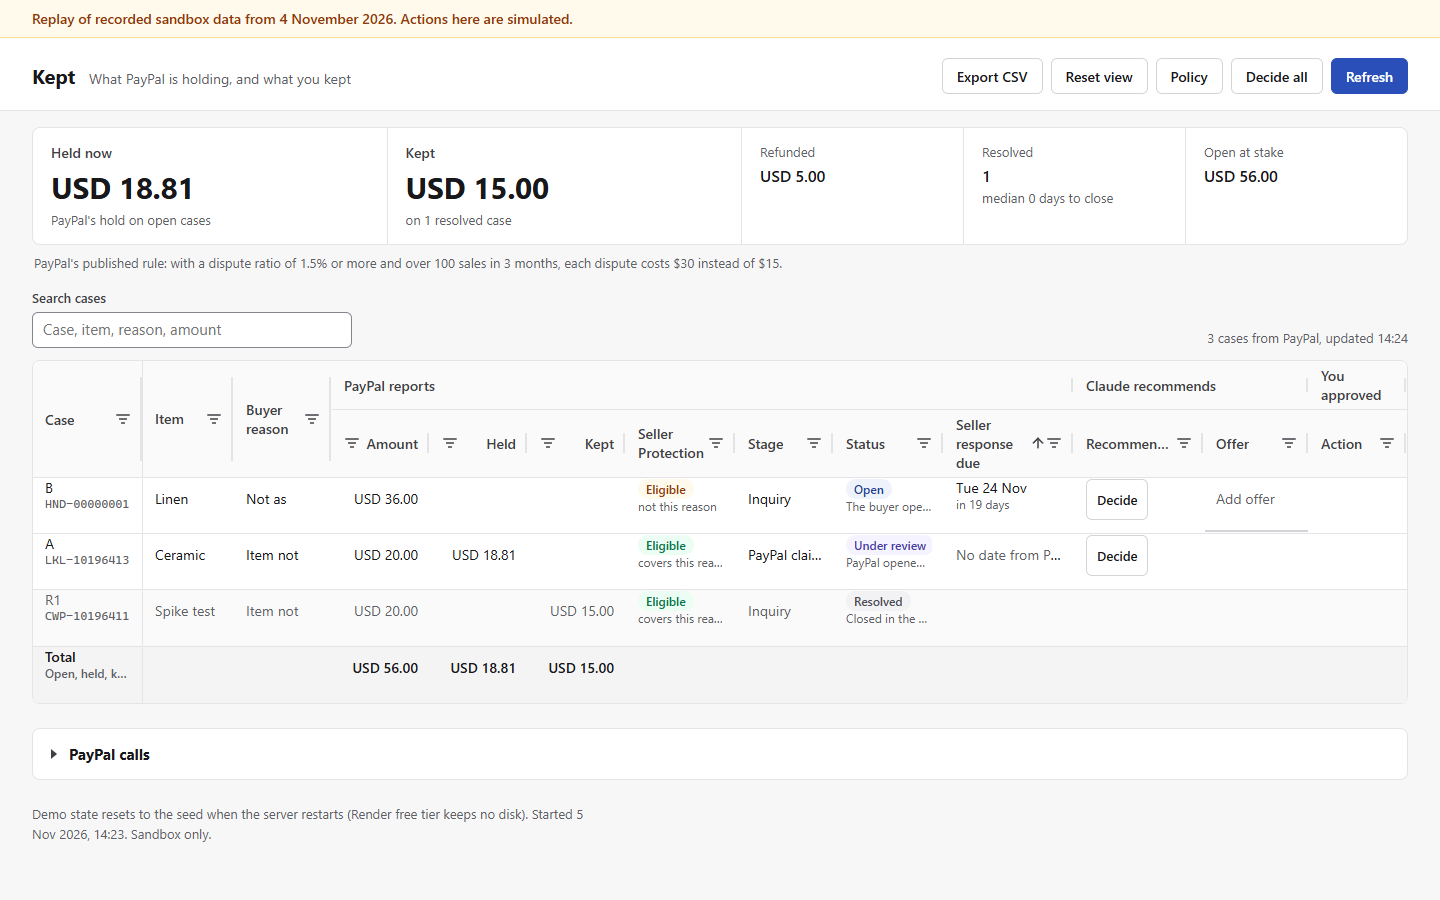
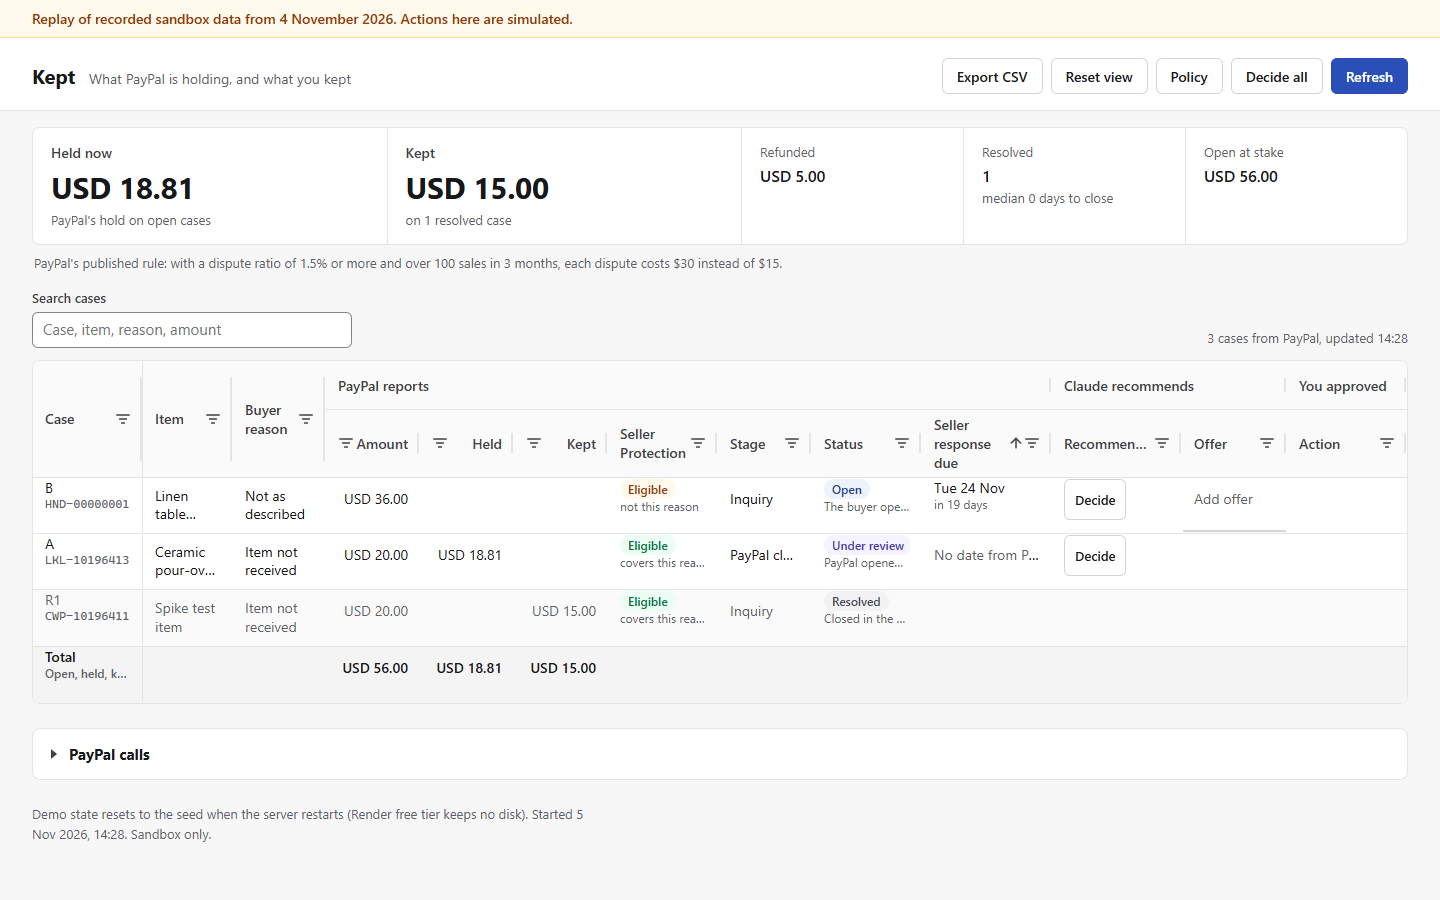
Show item and reason on two lines and keep the approval header on one

diff --git a/public/styles.css b/public/styles.css
@@ -371,6 +371,21 @@ textarea {
   overflow-wrap: anywhere;
 }
 
+.kept-grid .ag-cell.cell-wrap .ag-cell-wrapper {
+  align-items: center;
+}
+
+.kept-grid .ag-cell.cell-wrap .ag-cell-value {
+  display: -webkit-box;
+  height: auto;
+  max-height: 2.6em;
+  overflow: hidden;
+  line-height: 1.3;
+  white-space: normal;
+  -webkit-box-orient: vertical;
+  -webkit-line-clamp: 2;
+}
+
 .cell-sub {
   color: var(--muted);
   font-size: 12px;

diff --git a/public/app.js b/public/app.js
@@ -2272,7 +2272,7 @@
         {
           colId: "action",
           headerName: "Action",
-          minWidth: 86,
+          minWidth: 120,
           valueGetter: (p) => (p.node.rowPinned ? "" : actionText(p.data)),
         },
       ],
